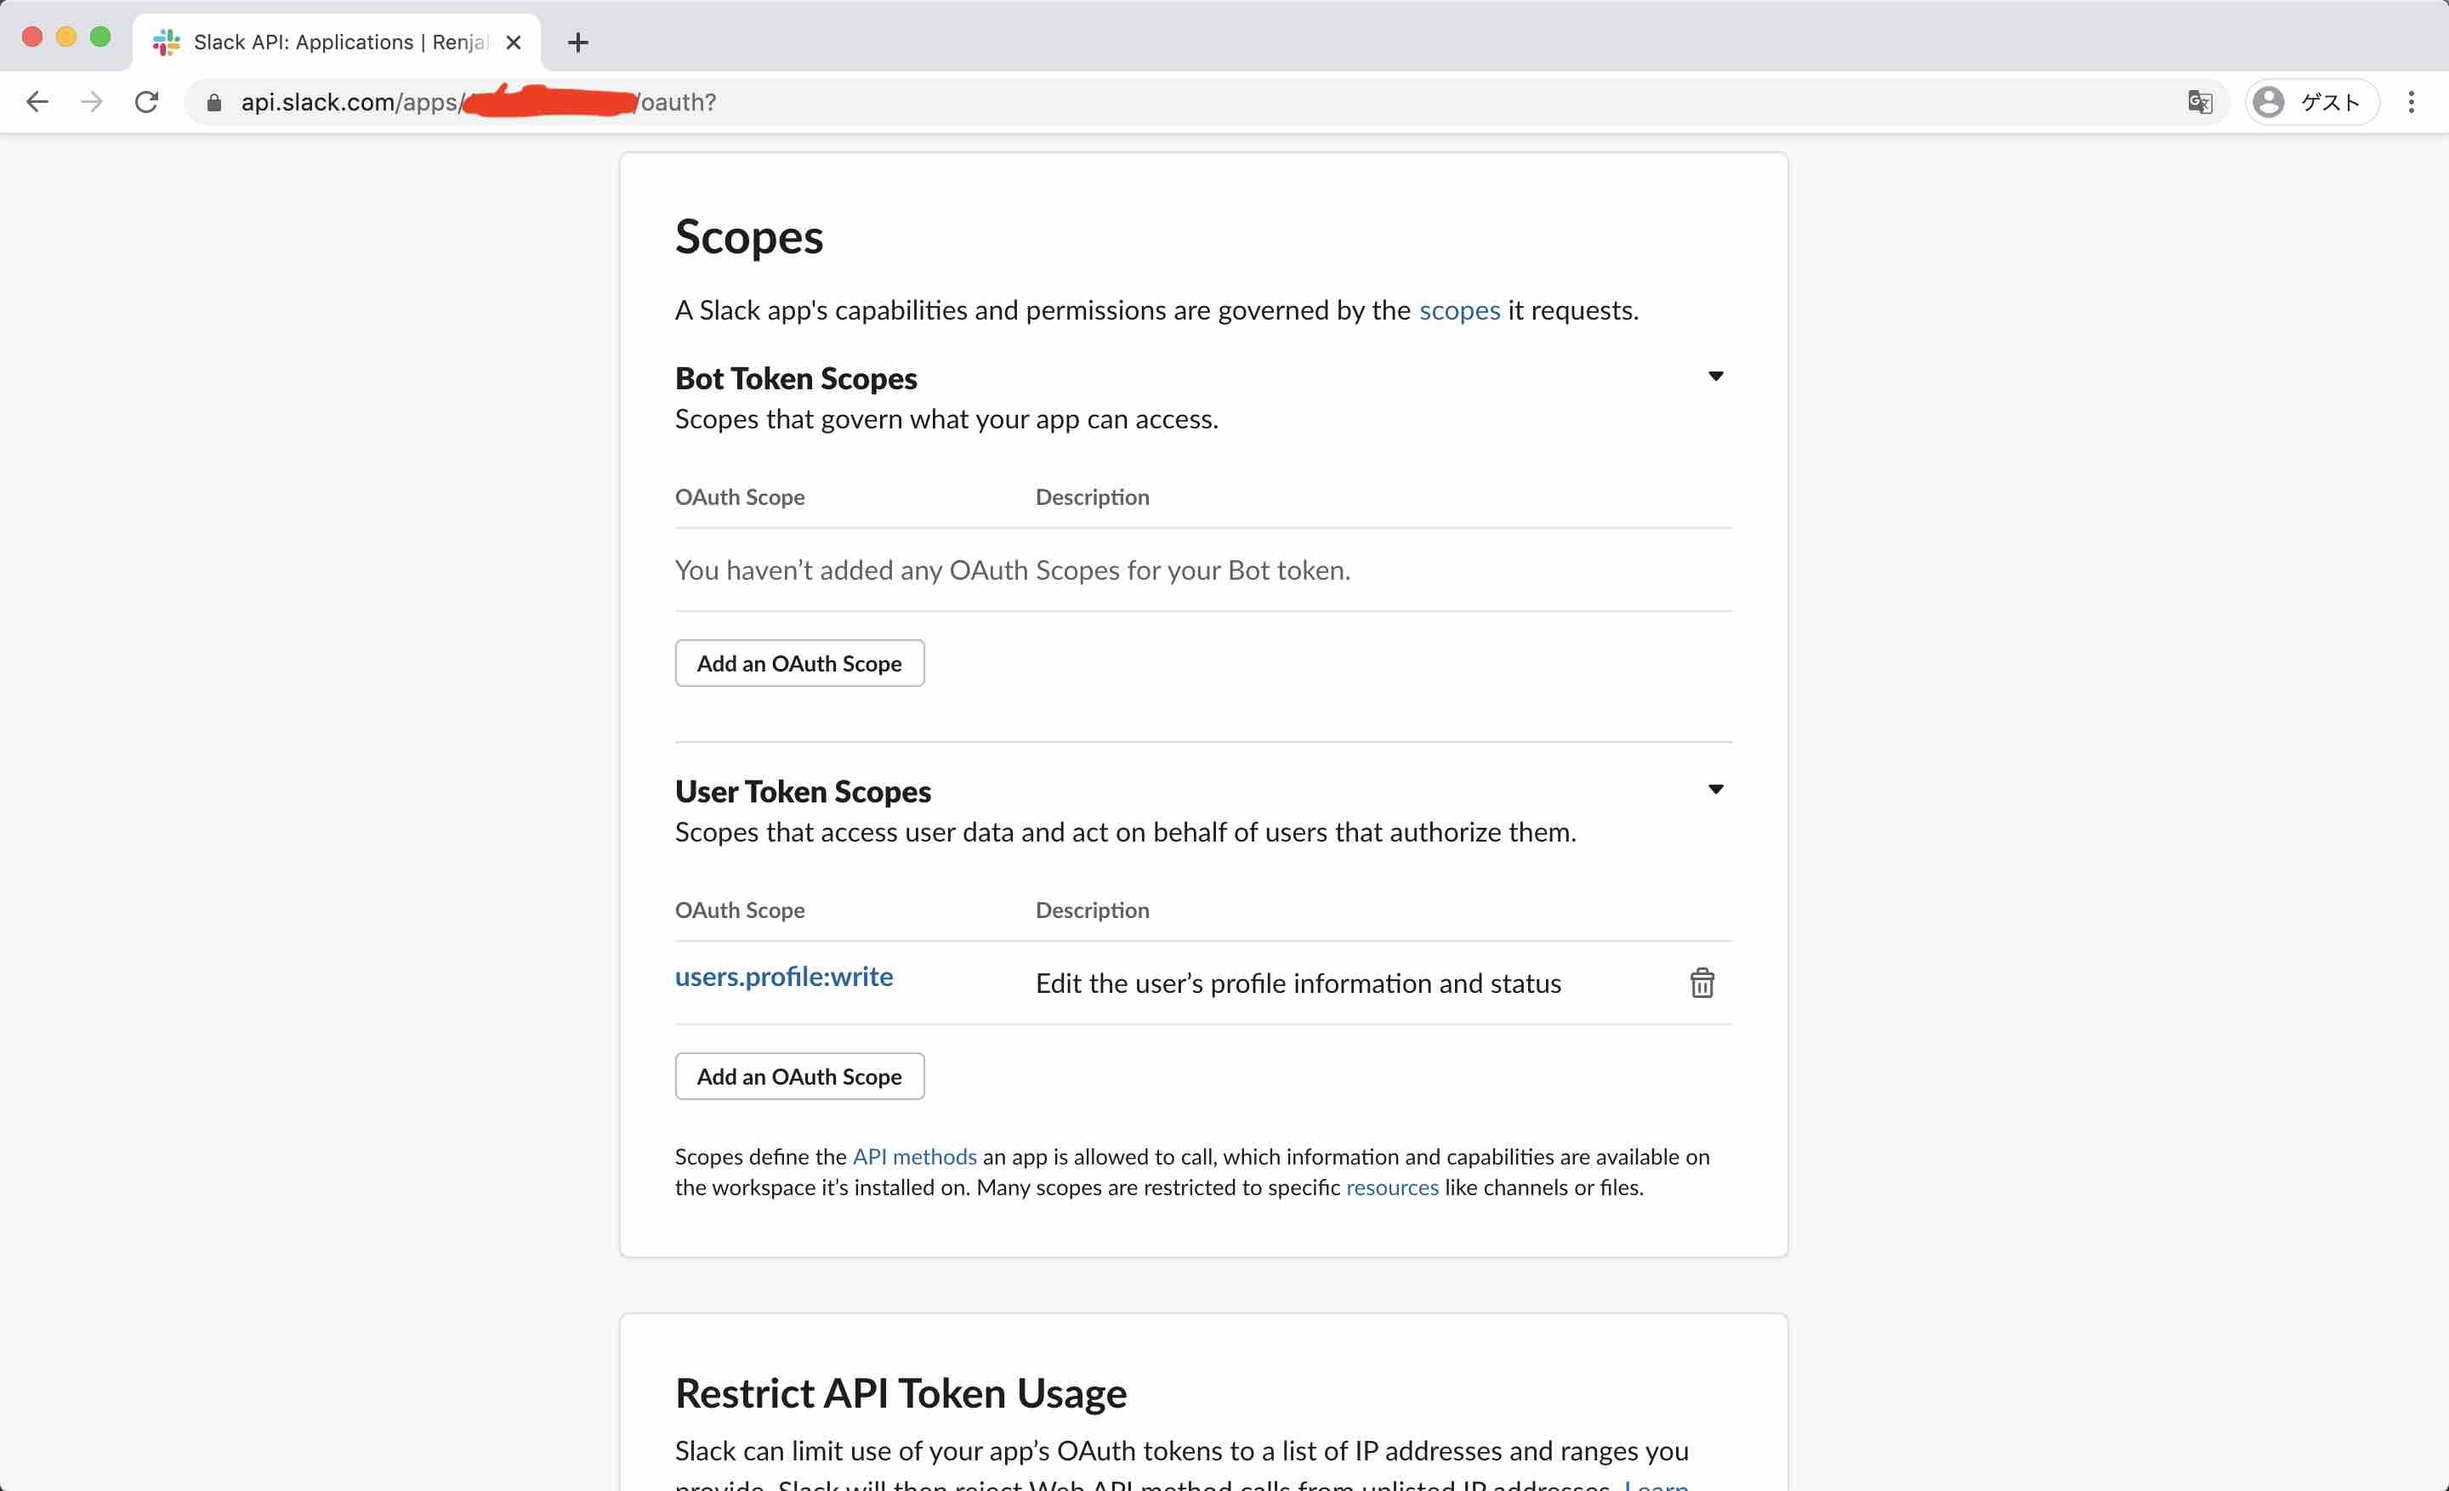
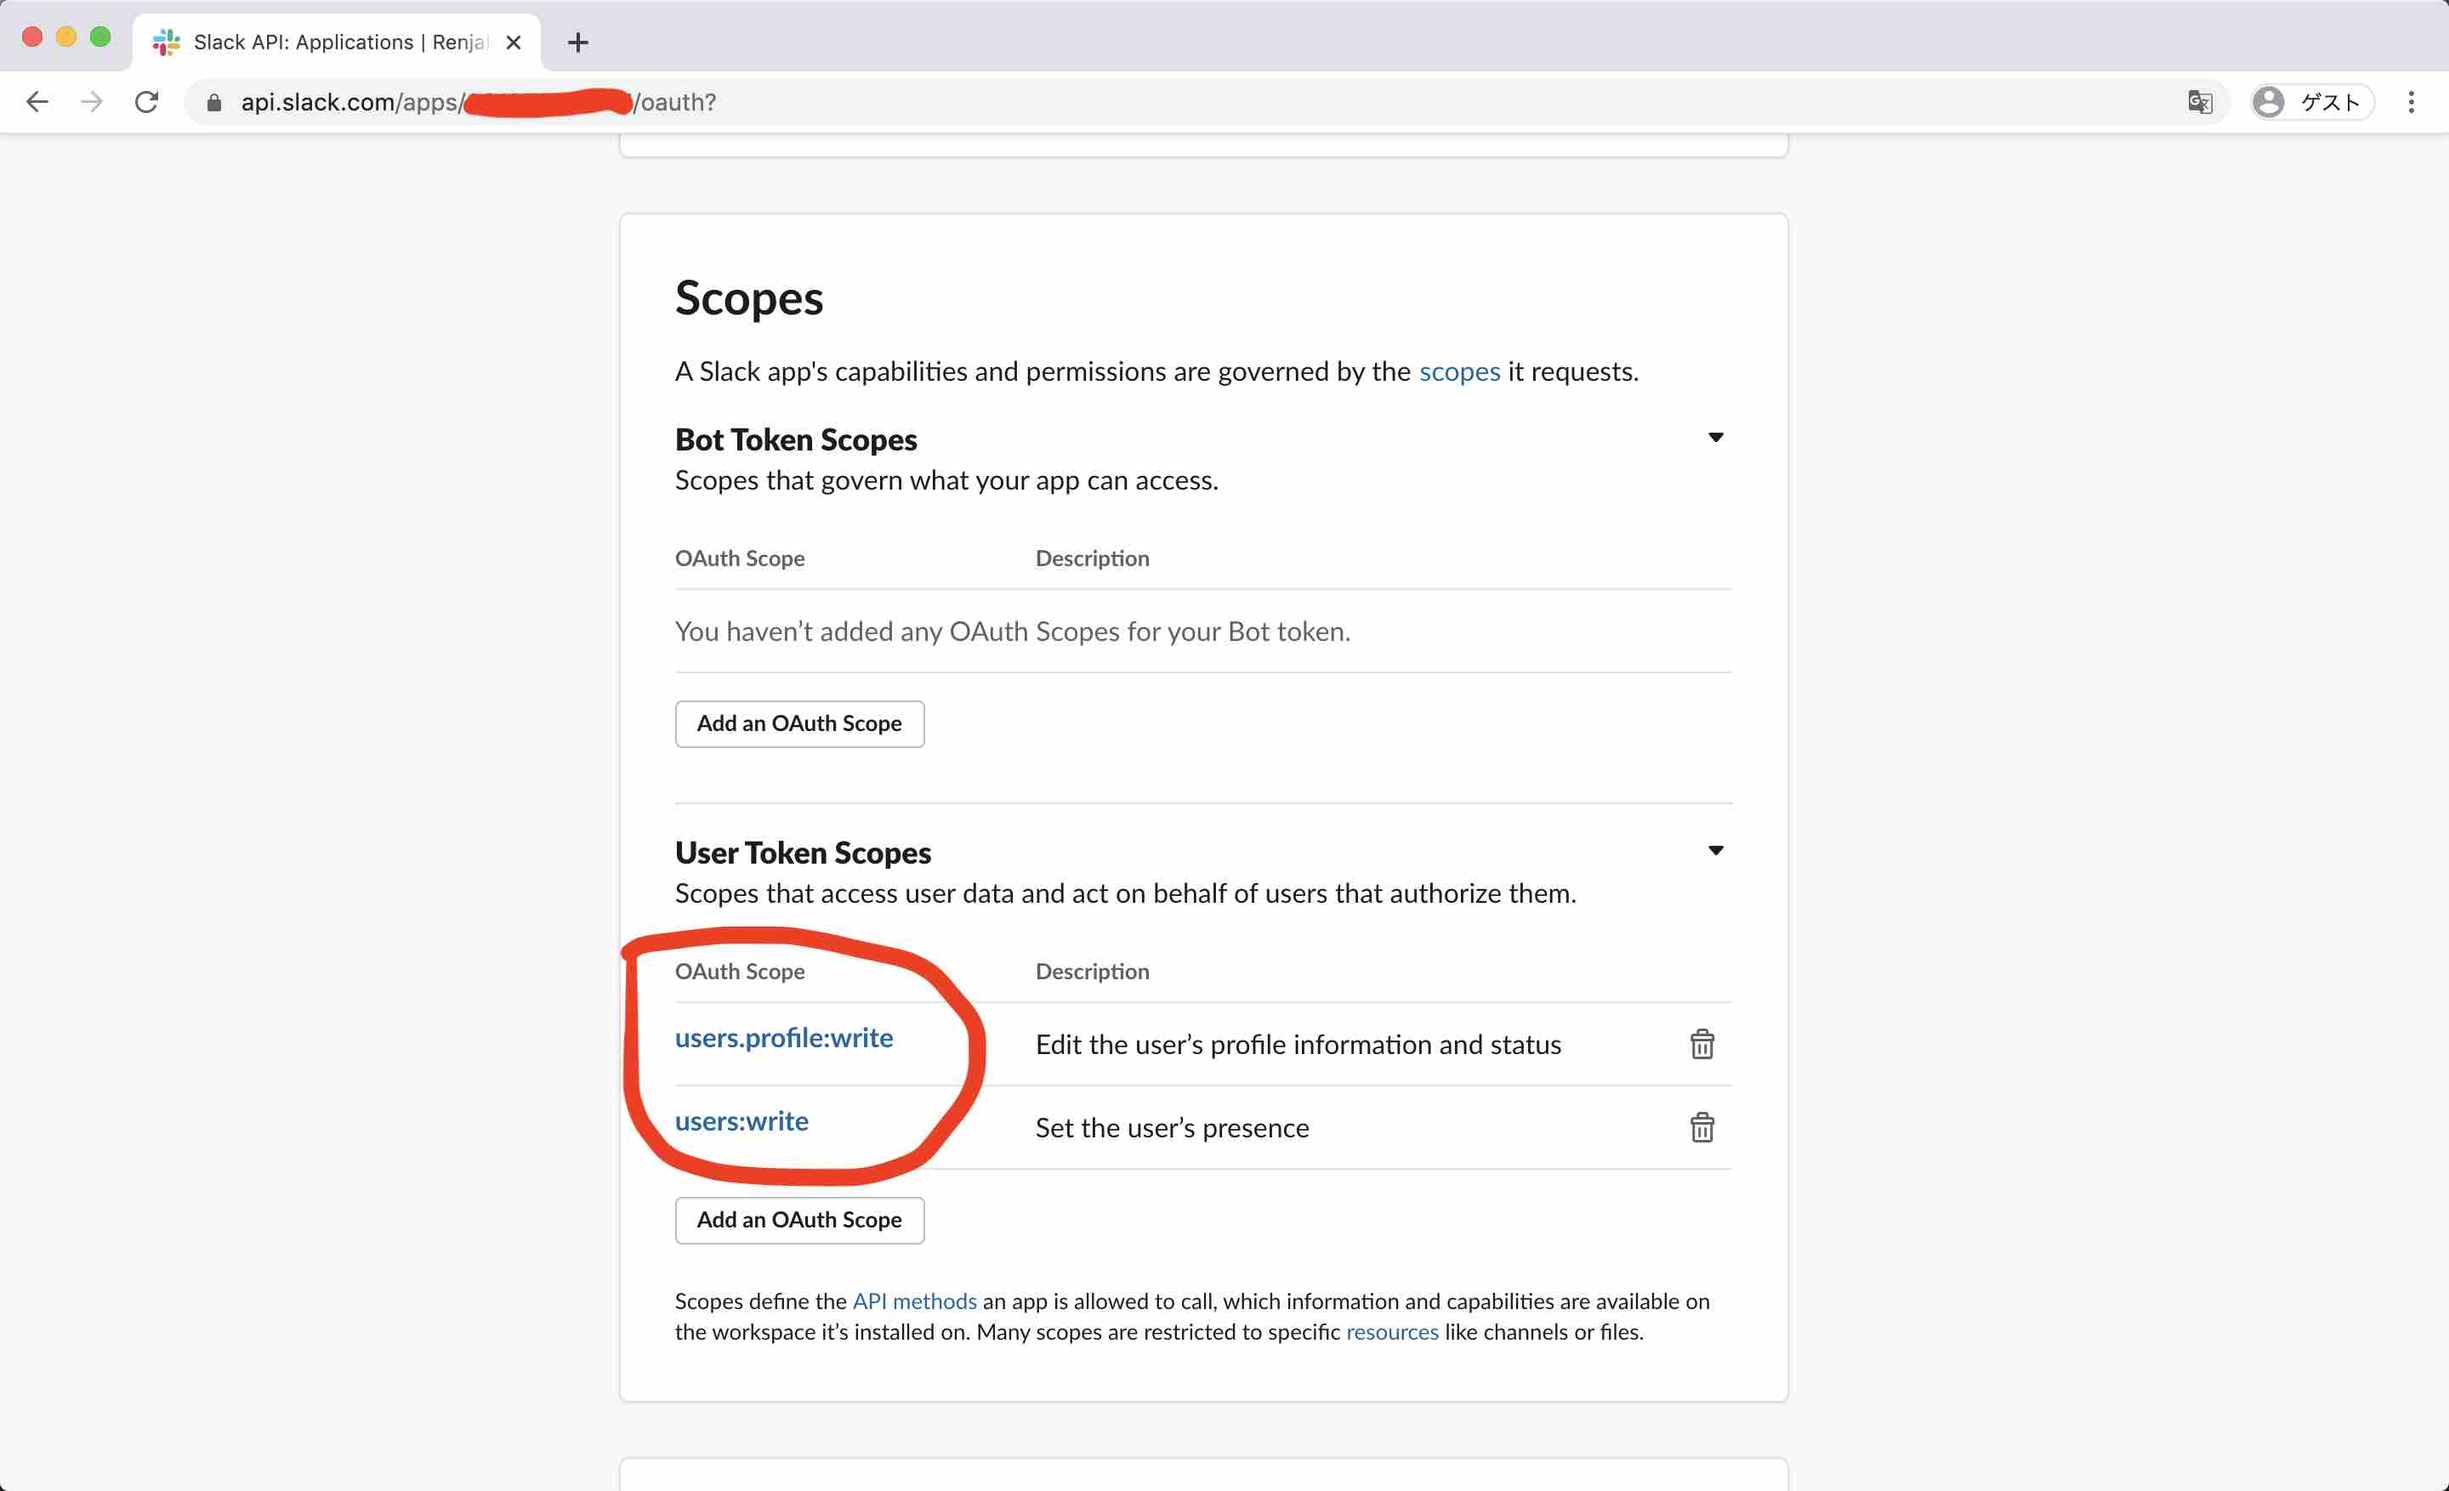
Add support for user presence

diff --git a/google-apps-script.gs.js b/google-apps-script.gs.js
@@ -1,8 +1,8 @@
 // ユーザーによって異なる定数
 const CALENDAR_ID = 'xxxx';
 const SLACK_USER_TOKEN = 'xxxx';
-const A_EMOJI = 'xxxx';
-const B_EMOJI = 'xxxx';
+const A_EMOJI = ':xxxx:';
+const B_EMOJI = ':xxxx:';
 
 // 場合によって異なる定数
 const A_PLACE = '職場';
@@ -19,8 +19,10 @@ function doPost(e) {
 }
 
 function update() {
-  let now = new Date();
+  let headers = {authorization: 'Bearer ' + SLACK_USER_TOKEN};
   let profile = {status_text: '', status_emoji: ''};
+  let presence = 'away';
+  let now = new Date();
   let holiday = CalendarApp.getCalendarById(HOLIDAY_CALENDAR_ID)
                            .getEventsForDay(now)
                            .length;
@@ -41,12 +43,26 @@ function update() {
       } else if (place == B_PLACE) {
         profile = {status_emoji: B_EMOJI}
       }
+      presence = 'auto';
     }
   }
 
   UrlFetchApp.fetch('https://slack.com/api/users.profile.set', {
     method: 'post',
-    headers: {authorization: 'Bearer ' + SLACK_USER_TOKEN},
-    payload: {profile: JSON.stringify(profile)},
+    headers: headers,
+    payload: {profile: JSON.stringify(profile)}
   });
+
+  UrlFetchApp.fetch('https://slack.com/api/users.setPresence', {
+    method: 'post',
+    headers: headers,
+    payload: {presence: presence}
+  });
+
+  if (presence != 'away') {
+    UrlFetchApp.fetch('https://slack.com/api/users.setActive', {
+      method: 'post',
+      headers: headers
+    });
+  }
 }

diff --git a/README.md b/README.md
@@ -19,8 +19,8 @@
 ![](images/slack/1.jpg)
 
 ↓ワークスペースに対するアクセス権限を定義します。
-users.profiles:write というユーザープロフィールを変更できる権限のみをユーザートークンに設定します。
-これでトークンが悪意のある第三者に知られても、あなたのプロフィールを変更することしかできません。
+自分のユーザー情報を変更できる権限のみをユーザートークンに設定します。
+これでトークンが悪意のある第三者に知られても、あなたの情報を変更することしかできません。
 
 ![](images/slack/2.jpg)
 
